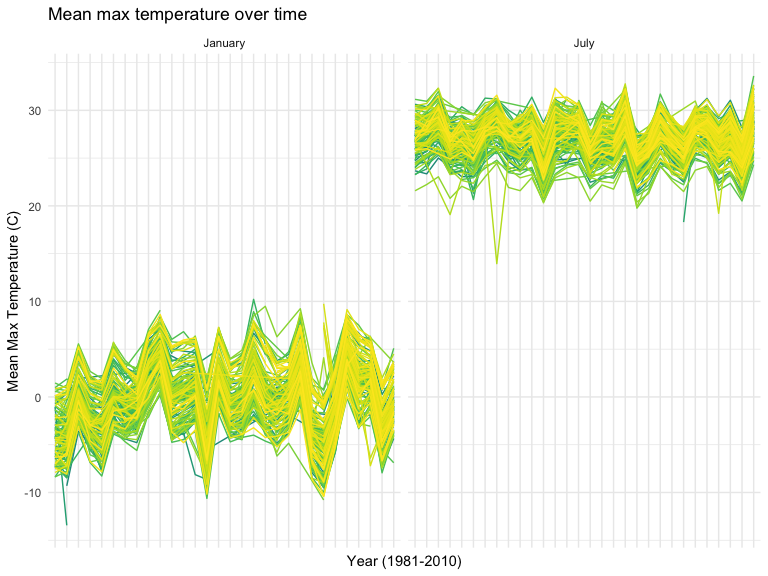
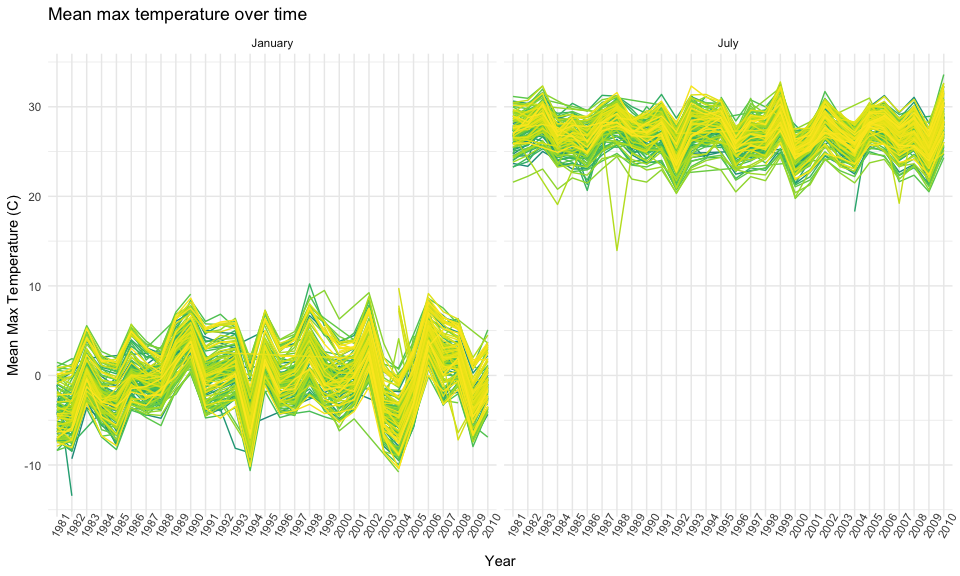
problem 3: update graphs and texts

diff --git a/p8105_hw3_jhm2176.md b/p8105_hw3_jhm2176.md
@@ -3,11 +3,6 @@ Homework 3
 Jenesis Merriman
 October 16, 2022
 
-``` r
-library(tidyverse)
-library(readr)
-```
-
 ## Problem 1
 
 ``` r
@@ -23,7 +18,7 @@ congestive heart failure (CHF).
 
 ### Part One
 
-First I will load the data while cleaning names:
+First I will load the data while cleaning names.
 
 ``` r
 accel_data = 
@@ -43,9 +38,8 @@ accel_data =
 Next, I will tidy the data, using `pivot_longer` to collapse all 1440
 activity\* variables into two new variables ‘minute’ and
 ‘activity_count’. I will also use `mutate` to create a new ‘day_type’
-factor variable indicating the type of day (weekday vs. weekend) for
-each observation, convert ‘minute’ into a double variable, and sort
-‘day’ (days of the week) chronologically.
+factor variable indicating the type of day for each observation, convert
+‘minute’ into a double variable, and sort ‘day’ chronologically.
 
 ``` r
 accel_tidy_data =
@@ -74,7 +68,7 @@ weekday or weekend (day_type).
 Traditional analyses of accelerometer data focus on the total activity
 over the day. The following code returns a table showing the total
 activity counts (total_activity) for each day by week, with days sorted
-chronologically from Monday-Sunday:
+chronologically from Monday-Sunday.
 
 ``` r
 accel_tidy_data %>%
@@ -98,7 +92,7 @@ accel_tidy_data %>%
 |    5 | 389080.0 | 367824.0 |    445366 | 549658.0 | 620860.0 |     1440 | 138421 |
 
 To help me better visualize trends in this data, the following code
-creates a plot displaying total_activity over time by day of the week:
+creates a plot displaying total_activity over time by day of the week.
 
 ``` r
 accel_tidy_data %>%
@@ -115,27 +109,28 @@ accel_tidy_data %>%
     ## `.groups` argument.
 
 <img src="p8105_hw3_jhm2176_files/figure-gfm/unnamed-chunk-3-1.png" width="90%" />
+
 **Trends**: Total activity varies by day and by week. For example, total
 activity for Monday increases significantly from week 1 to week 3, then
 decreases from week 3 to week 5, while total activity for Sunday
-decreases steadily over time, except a slight increase between week 2
-and week 3. At the start of data collection, activity was higher at the
-end of the week (Friday-Sunday) than the beginning of it
-(Mon-Wednesday). At the end of data collection, activity counts were
-lowest on the weekend (Sat-Sun). Notably, total activity for Saturday in
-weeks 4 and 5 is stagnant at 1440. Since our activity variables
-represent activity counts for each minute of a 24-hour day and there are
-1440 minutes in a day, a total_activity count of 1440 is unusual,
-indicating 1 activity count per minute. This may indicate that no
-activity was recorded on these two Saturdays or something else, but it
-is impossible to know for sure without more information.
+decreases steadily over time, except for a slight increase between week
+2 and week 3. At the start of data collection, activity was higher at
+the end of the week (Friday-Sunday) than the beginning of it
+(Monday-Wednesday). At the end of data collection, activity counts were
+lowest on the weekend (Saturday-Sunday). Notably, total activity for
+Saturday in weeks 4 and 5 is stagnant at 1440. Since our activity
+variables represent activity counts for each minute of a 24-hour day and
+there are 1440 minutes in a day, a total_activity count of 1440 is
+unusual, indicating 1 activity count per minute. This may indicate that
+no activity was recorded on these two Saturdays, or something else, but
+it is impossible to know for sure without more information.
 
 ### Part Three
 
 Accelerometer data also allows the inspection of activity over the
 course of the day. The following code creates a single-panel plot that
 shows the 24-hour activity time courses for each day, using color to
-indicate the day of the week:
+indicate the day of the week.
 
 ``` r
 accel_tidy_data %>%
@@ -149,19 +144,19 @@ accel_tidy_data %>%
 
 <img src="p8105_hw3_jhm2176_files/figure-gfm/unnamed-chunk-4-1.png" width="90%" />
 
-**Patterns**: Based on this graph, most activity occurs between 7am and
-10 pm. This makes sense considering most adults sleep somewhere between
-10 pm and 7 am. Activity count peaks around 9 pm (minutes ≈ 1250) on
-weekdays and late morning (minutes ≈ 500-750) on weekends. This pattern
-is not unusual, considering most adults work during weekdays and may be
-more active after work in the evenings or during the day on weekends.
+**Interpretation**: Based on this graph, most activity occurs between
+7am and 10 pm. This makes sense considering most adults sleep somewhere
+between 10 pm and 7 am. Activity count peaks around 9 pm (minutes ≈
+1250) on weekdays and late morning (minutes ≈ 500-750) on weekends. This
+pattern is not unusual, considering most adults work during weekdays and
+may be more active after work in the evenings or during the day on
+weekends.
 
-### Problem 3
+## Problem 3
 
-The goal is to do some exploration of this dataset. To that end, write a
-short description of the dataset, noting the size and structure of the
-data, describing some key variables, and indicating the extent to which
-missing data is an issue.
+This problem uses the NY NOAA data.
+
+First, I will load the data and describe it.
 
 ``` r
 data("ny_noaa")
@@ -169,64 +164,28 @@ data("ny_noaa")
 ny_noaa = 
   ny_noaa %>% 
   as_tibble(ny_noaa)
-
-summary(ny_noaa)
 ```
 
-    ##       id                 date                 prcp               snow       
-    ##  Length:2595176     Min.   :1981-01-01   Min.   :    0.00   Min.   :  -13   
-    ##  Class :character   1st Qu.:1988-11-29   1st Qu.:    0.00   1st Qu.:    0   
-    ##  Mode  :character   Median :1997-01-21   Median :    0.00   Median :    0   
-    ##                     Mean   :1997-01-01   Mean   :   29.82   Mean   :    5   
-    ##                     3rd Qu.:2005-09-01   3rd Qu.:   23.00   3rd Qu.:    0   
-    ##                     Max.   :2010-12-31   Max.   :22860.00   Max.   :10160   
-    ##                                          NA's   :145838     NA's   :381221  
-    ##       snwd            tmax               tmin          
-    ##  Min.   :   0.0   Length:2595176     Length:2595176    
-    ##  1st Qu.:   0.0   Class :character   Class :character  
-    ##  Median :   0.0   Mode  :character   Mode  :character  
-    ##  Mean   :  37.3                                        
-    ##  3rd Qu.:   0.0                                        
-    ##  Max.   :9195.0                                        
-    ##  NA's   :591786
+**Description**: This dataset contains 2595176 rows and 7 columns, with
+each row representing a single observation from a New York state weather
+station between January 1, 1981 and December 31, 2010. Variables include
+weather station ID (id), date of observation (date), precipitation in
+tenths of mm (prcp), snowfall in mm (snow), snow depth in mm (snwd),
+maximum temperature in tenths of degrees C (tmax), and minimum
+temperature in tenths of degrees C (tmin). Because each weather station
+may collect only a subset of these variables, this dataset contains
+substantial missing data. There are 3387623 missing values in this
+dataset.
 
-``` r
-head(ny_noaa)
-```
+### Part One
 
-    ## # A tibble: 6 × 7
-    ##   id          date        prcp  snow  snwd tmax  tmin 
-    ##   <chr>       <date>     <int> <int> <int> <chr> <chr>
-    ## 1 US1NYAB0001 2007-11-01    NA    NA    NA <NA>  <NA> 
-    ## 2 US1NYAB0001 2007-11-02    NA    NA    NA <NA>  <NA> 
-    ## 3 US1NYAB0001 2007-11-03    NA    NA    NA <NA>  <NA> 
-    ## 4 US1NYAB0001 2007-11-04    NA    NA    NA <NA>  <NA> 
-    ## 5 US1NYAB0001 2007-11-05    NA    NA    NA <NA>  <NA> 
-    ## 6 US1NYAB0001 2007-11-06    NA    NA    NA <NA>  <NA>
-
-*This dataset contains 2595176 rows and 7 columns, with each row
-representing a single observation from a New York state weather station
-between January 1, 1981 and December 31, 2010. Variables include weather
-station ID (id), date of observation (date), precipitation in tenths of
-mm (prcp), snowfall in mm (snow), snow depth in mm (snwd), maximum
-temperature in tenths of degrees C (tmax), and minimum temperature in
-tenths of degrees C (tmin). Because each weather station may collect
-only a subset of these variables, this dataset contains substantial
-missing data. There are 3387623 values missing in this dataset.*
-
-Then, do or answer the following (commenting on the results of each):
-
-Do some data cleaning. Create separate variables for year, month, and
-day. Ensure observations for temperature, precipitation, and snowfall
-are given in reasonable units.
-
-*To clean the data, the following code uses `separate` to create
-separate variables for year, month, and day and `mutate` to convert
-variables to reasonable types and units. Specifically, ‘tmax’ and ‘tmin’
-were converted from tenths of degrees celsius to degrees celsius by
-transforming the variable type from character to numeric and dividing
-each value by 10. Similarly, ‘prcp’ was converted from tenths of a
-millimeter to millimeters by dividing each value by 10.*
+Next, I will clean the data. The following code uses `separate` to
+create separate variables for year, month, and day and `mutate` to
+convert variables to reasonable types and units. Specifically, ‘tmax’
+and ‘tmin’ were converted from tenths of degrees celsius to degrees
+celsius by transforming the variable type from character to numeric and
+dividing each value by 10. Similarly, ‘prcp’ was converted from tenths
+of a millimeter to millimeters by dividing each value by 10.
 
 ``` r
 ny_noaa_tidy =
@@ -245,7 +204,7 @@ ny_noaa_tidy =
     tmin = as.double(tmin / 10))
 ```
 
-For snowfall, what are the most commonly observed values? Why?
+**For snowfall, what are the most commonly observed values? Why?**
 
 ``` r
 ny_noaa_tidy %>% 
@@ -268,15 +227,16 @@ ny_noaa_tidy %>%
     ## 10     3    8790
     ## # … with 272 more rows
 
-*The most commonly observed values for snowfall are 0 mm by far,
-followed by NA. This is because there are significantly more days in the
-year with no snow (snow = 0) than days with snow. This dataset also
-contains extensive missing data, explaining why NA is the second most
-commonly observed value for snow.*
+The most commonly observed values for snowfall are 0 mm by far, followed
+by NA. This is because there are significantly more days in the year
+with no snow (snow = 0) than days with snow in New York. This dataset
+also contains extensive missing data, explaining why NA is the second
+most commonly observed value for snow.
 
-Make a two-panel plot showing the average max temperature in January and
-in July in each station across years. Is there any observable /
-interprettable structure? Any outliers?\*\*\*
+### Part Two
+
+The following code creates a two-panel plot showing the average max
+temperature in January and in July in each station across years.
 
 ``` r
 ny_noaa_tidy %>%
@@ -287,11 +247,11 @@ ny_noaa_tidy %>%
     tmax_mean = mean(tmax, na.rm = TRUE)) %>% 
   ggplot(aes(x = year, y = tmax_mean, group = id, color = id)) +
   geom_line(show.legend = FALSE) +
+  theme(axis.text.x = element_text(angle = 60)) +
   facet_grid(.~month) +
-  theme(axis.text.x = element_blank(), legend.position = "none") +
   labs(
-    title = "Mean max temperature over time ",
-    x = "Year (1981-2010)",
+    title = "Mean max temperature over time",
+    x = "Year",
     y = "Mean Max Temperature (C)")
 ```
 
@@ -300,10 +260,20 @@ ny_noaa_tidy %>%
 
 <img src="p8105_hw3_jhm2176_files/figure-gfm/unnamed-chunk-8-1.png" width="90%" />
 
-Make a two-panel plot showing (i) tmax vs tmin for the full dataset (a
-scatterplot may not be the best option); and (ii) make a plot showing
-the distribution of snowfall values greater than 0 and less than 100
-separately by year.
+**Interpretation**: As expected, values for mean max temperature are
+higher in July than in January for our data in New York. Values
+fluctuate over time for each month. In January, mean max temperature
+ranges from -10 to 10 degrees C, on average. In July, mean max
+temperature ranges from 20 to 35 degrees C, on average. There are a few
+outliers in each month, including in January 1982, 1993, 2000, and 2004
+and in July 1984, 1988, 2004, and 2007.
+
+### Part Three
+
+The following code uses patchwork to create a two-panel plot showing (i)
+tmax vs tmin for the full dataset; and (ii) the distribution of snowfall
+values greater than 0 and less than 100 separately by year. I will use
+`geom_hex` and `geom_density` for each plot, respectively.
 
 ``` r
 tmax_tmin_p =
@@ -315,11 +285,11 @@ tmax_tmin_p =
 snowfall_p =
   ny_noaa_tidy %>%
   filter(
-    snow > 0, snow < 100) %>% 
+     snow > 0, snow < 100) %>% 
   group_by(id, month, year) %>% 
   ggplot(aes(x = snow, color = year)) +
   geom_density() +
-  theme(legend.position = "none") 
+  theme(legend.position = "right")
 
 tmax_tmin_p / snowfall_p
 ```
